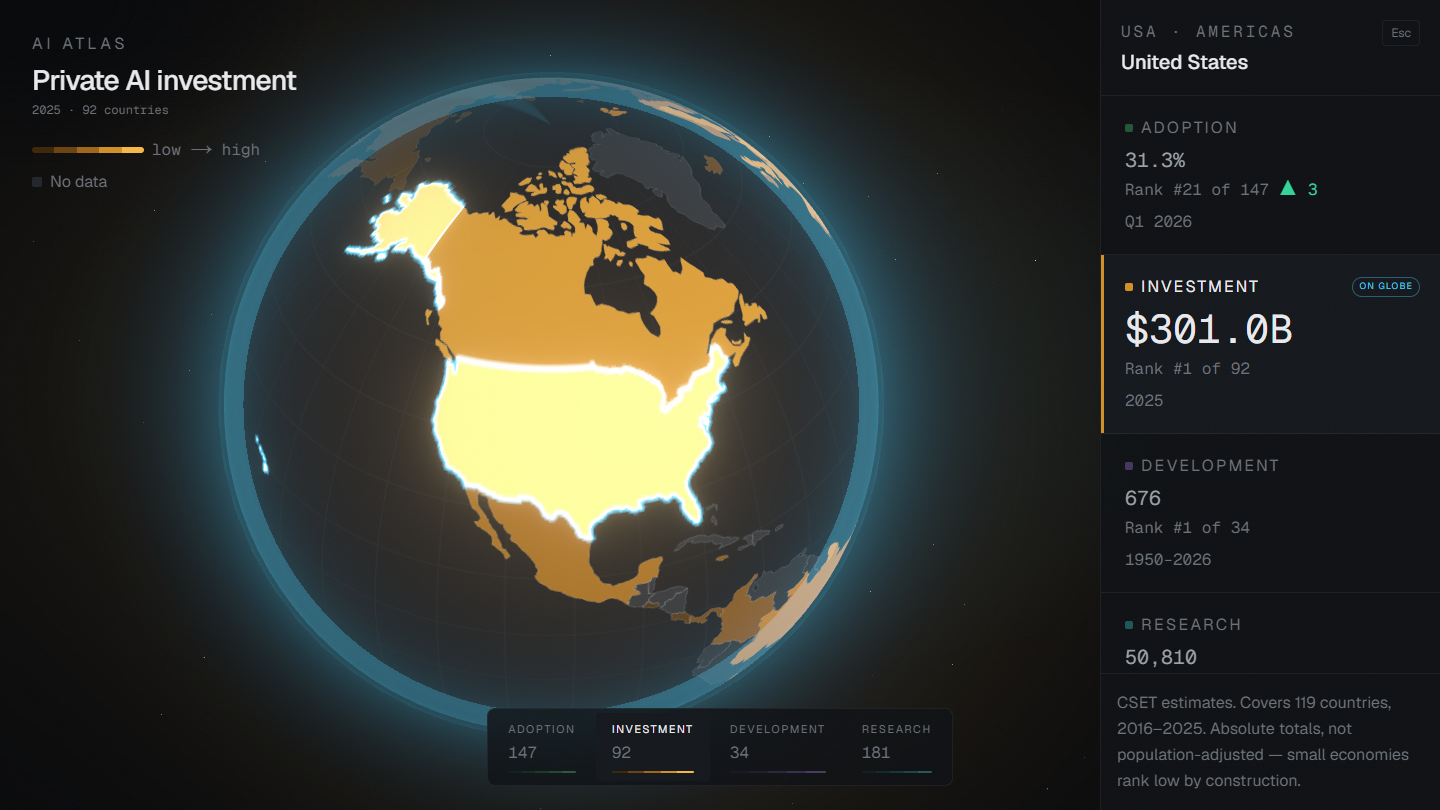
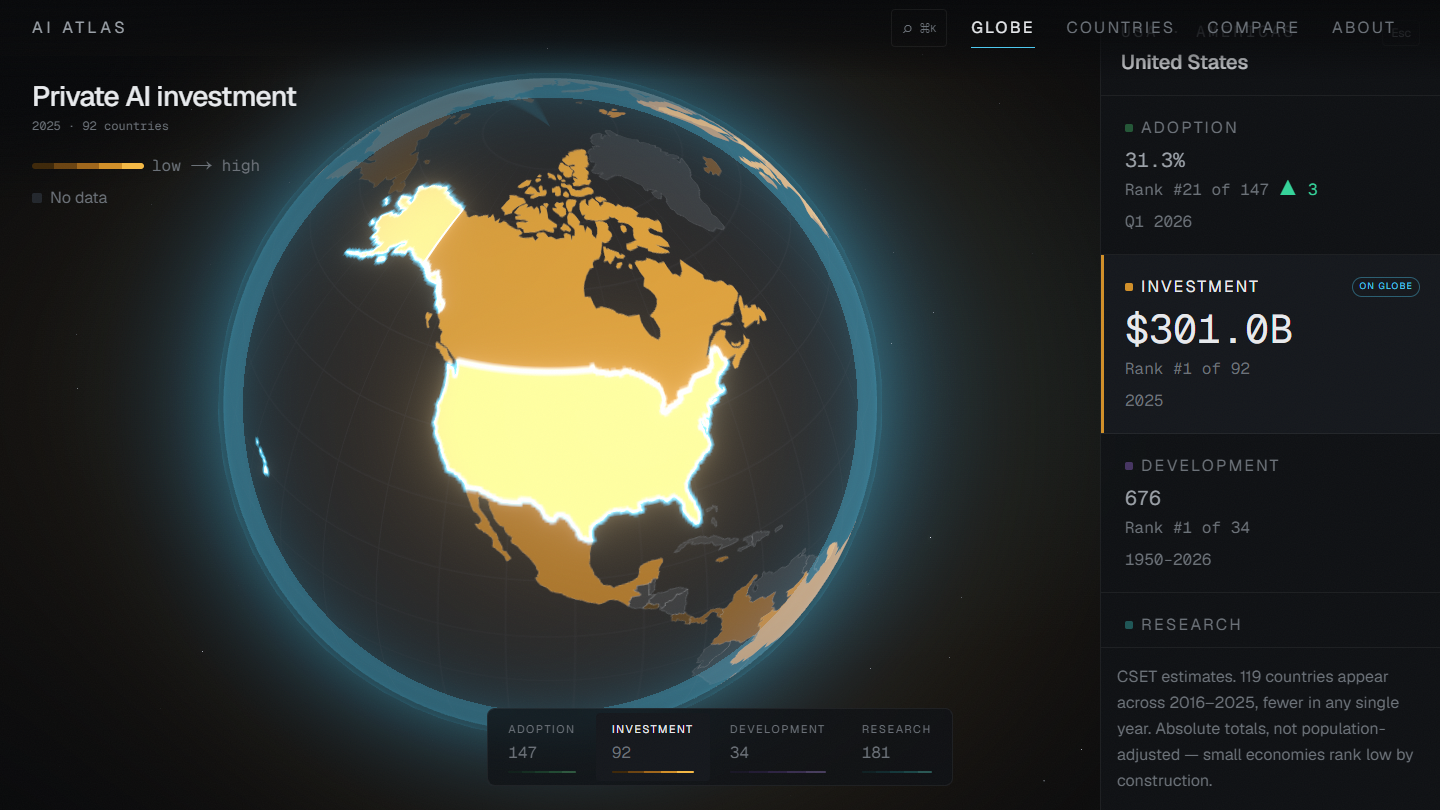
Update the README for what the project actually is now
It still described V0 and listed country pages, the ranked index and compare
as upcoming work — all of which shipped.

Adds an "Inside" section with fresh screenshots of the four pages and the
command palette, each captioned with what it does rather than left to speak for
itself. The old research-layer image is replaced; it showed a second view of
the globe when the more useful thing to show is the rest of the product.

The status section now names the two deliberately unbuilt features and why,
rather than implying the project is unfinished in some unspecified way. Being
first to state a limitation reads better than being asked about it.

Verified every referenced image exists, no asset is orphaned, every pnpm
command quoted is real, and no stale claim survives.

diff --git a/README.md b/README.md
@@ -16,30 +16,51 @@ surface — backed by a real ETL pipeline into Postgres, not a folder of JSON fi
 ## What this is
 
 Four dimensions of the global AI landscape — **adoption**, **investment**, **development**
-and **research** — painted onto a globe you can spin, click and read. Every figure on
-screen traces back to a row in a database, which traces back to a dated snapshot of a
-published dataset.
+and **research** — across 194 countries. Every figure on screen traces back to a row in a
+database, which traces back to a dated snapshot of a published dataset.
 
 There is no "overall AI score." Countries lead on different dimensions, and collapsing
 that into one number would be inventing a finding rather than showing one.
 
+```
+194 countries with data  ·  3,419 metric rows  ·  3,419 rankings  ·  1,052 models
+```
+
+---
+
+## Inside
+
 <table>
 <tr>
-<td width="50%"><img src="docs/assets/country-panel.png" alt="United States selected on the investment layer, with a detail panel"></td>
-<td width="50%"><img src="docs/assets/research-layer.png" alt="The research layer, showing AI scholarly publications"></td>
+<td width="50%"><img src="docs/assets/country-panel.png" alt="The United States selected on the investment layer"></td>
+<td width="50%"><img src="docs/assets/country-page.png" alt="China's country page, showing four metrics and their history"></td>
 </tr>
 <tr>
-<td><b>Click a country</b> — the camera flies to it, the globe slides clear of the panel, and every layer's figure appears with its rank and period-over-period movement.</td>
-<td><b>Switch layers</b> — the whole globe crossfades to a new palette. Each dimension gets its own sequential ramp so it reads differently at a glance.</td>
+<td><b>The globe</b> — click a country and the camera flies to it, the globe slides clear of the panel, and every layer's figure appears with its rank and movement. Switching layers crossfades the whole sphere to a new palette.</td>
+<td><b>Country pages</b> — 194 of them, statically generated. The hero names the dimension that country actually leads on. Four metrics, their full history, and every notable AI model built there.</td>
+</tr>
+<tr>
+<td><img src="docs/assets/countries-table.png" alt="The ranked country table sorted by research output"></td>
+<td><img src="docs/assets/compare.png" alt="Four countries compared across all dimensions"></td>
+</tr>
+<tr>
+<td><b>The ranked index</b> — the same data as a table, sortable by any dimension and filterable by region. The globe is not the only route to the data, which is why this is a requirement rather than a nice-to-have.</td>
+<td><b>Compare</b> — up to four countries at once. Bars are percentile <i>within each dimension</i>, the only scale on which a share of adults, a sum in dollars and a count of papers honestly sit together.</td>
 </tr>
 </table>
+
+<div align="center">
+<img src="docs/assets/palette.png" alt="The command palette searching for countries" width="70%">
+<br>
+<sub><b>⌘K from anywhere</b> — every country, layer and page. 194 entries in under 10 KB, searched entirely on the client.</sub>
+</div>
 
 ---
 
 ## The data
 
 Four layers, all country-level, all verified against source before a line of UI was
-written. Coverage is the number of distinct countries the dataset carries.
+written. Coverage is the number of distinct countries each dataset carries.
 
 | Layer           | Source                                               | Countries | Period            |
 | --------------- | ---------------------------------------------------- | --------- | ----------------- |
@@ -47,10 +68,6 @@ written. Coverage is the number of distinct countries the dataset carries.
 | **Investment**  | CSET, via Our World in Data                          | 119       | 2016 – 2025       |
 | **Research**    | CSET / Stanford AI Index, via Our World in Data      | 190       | 2016 – 2024       |
 | **Development** | Epoch AI — Notable AI Models                         | 34        | 1950 – 2026       |
-
-```
-194 countries with data  ·  3,419 metric rows  ·  3,419 rankings  ·  1,052 models
-```
 
 The **development** layer covers only 34 countries, and the United States alone accounts
 for 676 of the 1,052 notable models. That concentration _is_ the finding — the map is
@@ -95,6 +112,11 @@ readback. That leaves the entire GPU budget for atmosphere, bloom and starfield.
 identical, so a raycast hit converts straight to latitude and longitude with no rotation
 to unwind.
 
+**Charts are hand-built React and SVG on d3 scales.** No chart library. Each plot carries
+a single series and therefore no legend — the four layers have incompatible units, and a
+shared axis would need a second y-scale whose alignment is arbitrary, inventing a
+correlation that is not in the data.
+
 **Rankings are precomputed at ingest.** Rank, previous rank, delta and percentile are
 written during the pipeline run, so rank-change animations cost an indexed lookup rather
 than a window function per request.
@@ -104,8 +126,8 @@ non-zero naming the file to edit. Aggregates like `World` and `Multinational` ar
 explicitly and filtered _before_ resolution, so a genuine miss is never mistaken for an
 expected skip. A quietly shrinking map looks completely fine until someone checks.
 
-**Country pages are static with ISR.** The database is off the critical render path;
-layer payloads are fetched in a server component and handed to the client as
+**Country pages are static with ISR.** 194 pages built in about 40 seconds; the database
+is off the critical render path. Layer payloads reach the client as
 `[iso3, value, rank, delta]` tuples — roughly 3 KB per layer instead of 40.
 
 > The full decision log, including two data-quality traps found during ingest, is in
@@ -115,16 +137,16 @@ layer payloads are fetched in a server component and handed to the client as
 
 ## Stack
 
-|               |                                                                                                  |
-| ------------- | ------------------------------------------------------------------------------------------------ |
-| **Framework** | Next.js 16 (App Router, RSC) · React 19 · TypeScript strict                                      |
-| **3D**        | three.js · React Three Fiber · drei · postprocessing                                             |
-| **Styling**   | Tailwind CSS v4 · design tokens in one CSS file                                                  |
-| **Motion**    | Motion · custom camera damping · `prefers-reduced-motion` throughout                             |
-| **Data viz**  | d3 modules (`scale`, `geo`, `array`, `interpolate`) — charts hand-built in SVG, no chart library |
-| **State**     | Zustand · nuqs for URL-synced view state                                                         |
-| **Backend**   | Neon serverless Postgres · Drizzle ORM · Zod                                                     |
-| **Testing**   | Vitest · Playwright                                                                              |
+|               |                                                                          |
+| ------------- | ------------------------------------------------------------------------ |
+| **Framework** | Next.js 16 (App Router, RSC) · React 19 · TypeScript strict              |
+| **3D**        | three.js · React Three Fiber · drei · postprocessing · custom GLSL       |
+| **Styling**   | Tailwind CSS v4 · design tokens in one CSS file                          |
+| **Motion**    | Motion · custom camera damping · `prefers-reduced-motion` throughout     |
+| **Data viz**  | d3 modules (`scale`, `geo`, `shape`, `array`) — charts hand-built in SVG |
+| **State**     | Zustand · nuqs for URL-synced view state                                 |
+| **Backend**   | Neon serverless Postgres · Drizzle ORM · Zod                             |
+| **Testing**   | Vitest · Playwright                                                      |
 
 `noUncheckedIndexedAccess` is on. This project parses a lot of CSV, and it forces every
 indexed read to be checked rather than trusted.
@@ -171,7 +193,9 @@ matter how healthy the row counts look.
 
 ## Interaction
 
-|                    |                                                                   |
+**⌘K** or **Ctrl-K** anywhere searches every country, layer and page.
+
+| On the globe       |                                                                   |
 | ------------------ | ----------------------------------------------------------------- |
 | **Drag**           | Rotate. Idle rotation resumes after twelve seconds of quiet.      |
 | **Hover**          | Country, value and rank.                                          |
@@ -181,10 +205,13 @@ matter how healthy the row counts look.
 | **`Home` / `End`** | Jump to best / worst rank.                                        |
 | **`Esc`**          | Close the panel.                                                  |
 
-Every view is a link: `/?layer=investment&country=BRA`.
+| In the country table |                   |
+| -------------------- | ----------------- |
+| **`/`**              | Focus search      |
+| **`↑` `↓`**          | Move between rows |
 
-The globe is not the only path to the data — that is why keyboard navigation exists, and
-why the ranked country table is a V1 requirement rather than a nice-to-have.
+Every view is a link: `/?layer=investment&country=BRA` ·
+`/compare?countries=USA,CHN,DEU`.
 
 ---
 
@@ -192,16 +219,24 @@ why the ranked country table is a V1 requirement rather than a nice-to-have.
 
 ```
 src/
-  app/                    routes; the globe page is static + ISR
-  components/globe/       R3F scene, camera rig, HUD, shaders
-  components/ui/          shared primitives
-  lib/db/                 Drizzle schema, client, queries
-  lib/geo/                crosswalk, sphere maths, choropleth painter
-  lib/metrics/            metric registry, colour scales, formatters
-  styles/tokens.css       every colour, duration and type step
-scripts/ingest/           fetch -> validate -> resolve -> upsert
-data/snapshots/           dated source CSVs, committed
-docs/                     MASTER_PLAN.md, DECISIONS.md
+  app/
+    page.tsx                the globe; static + ISR
+    countries/              ranked index and 194 country pages
+    compare/                percentile comparison
+    about/                  the case study
+  components/
+    globe/                  R3F scene, camera rig, HUD, shaders
+    charts/                 mark specs, time series, sparkline, bars
+    panels/                 metric tiles, country table, compare board
+    ui/                     nav, command palette, animated figures
+  lib/
+    db/                     Drizzle schema, client, queries
+    geo/                    crosswalk, sphere maths, choropleth painter
+    metrics/                registry, colour scales, formatters
+  styles/tokens.css         every colour, duration and type step
+scripts/ingest/             fetch -> validate -> resolve -> upsert
+data/snapshots/             dated source CSVs, committed
+docs/                       MASTER_PLAN.md, DECISIONS.md
 ```
 
 Colour lives in exactly one file. Nothing outside `tokens.css` hard-codes a hex.
@@ -210,15 +245,19 @@ Colour lives in exactly one file. Nothing outside `tokens.css` hard-codes a hex.
 
 ## Status
 
-**V0 complete** — pipeline, schema and globe. Next: country detail pages, a ranked and
-fully keyboard-navigable country table, comparison across dimensions, and a trends view.
+The globe, country pages, the ranked index, compare, search and the case-study page are
+built, along with sitemap, robots, per-country social images, and error and loading
+states. 55 tests; a production build of 205 pages takes about a minute.
 
-One design question is parked deliberately. Microsoft's adoption estimates are modelled,
-and low-data countries are imputed in regional blocks — twelve West African countries
-share exactly 10.1%. Rank movement inside such a block is an artefact of the model, not a
-national trend, so "fastest rising" needs an honest answer before it ships as a headline.
-That reasoning is written down in [`docs/DECISIONS.md`](docs/DECISIONS.md) rather than
-discovered later.
+**Two things are deliberately unbuilt.** A "fastest rising" view is on hold: the adoption
+estimates are modelled, and low-data countries are imputed in regional blocks — twelve
+West African countries share exactly 10.1%. Rank movement inside such a block is an
+artefact of the model, not a national trend, so the feature needs an honest answer before
+it ships. Company profiles are also outstanding; there is no free funding API worth
+trusting, so they will be hand-curated and labelled as such.
+
+The reasoning for both is written down in [`docs/DECISIONS.md`](docs/DECISIONS.md) rather
+than discovered later.
 
 ---
 
